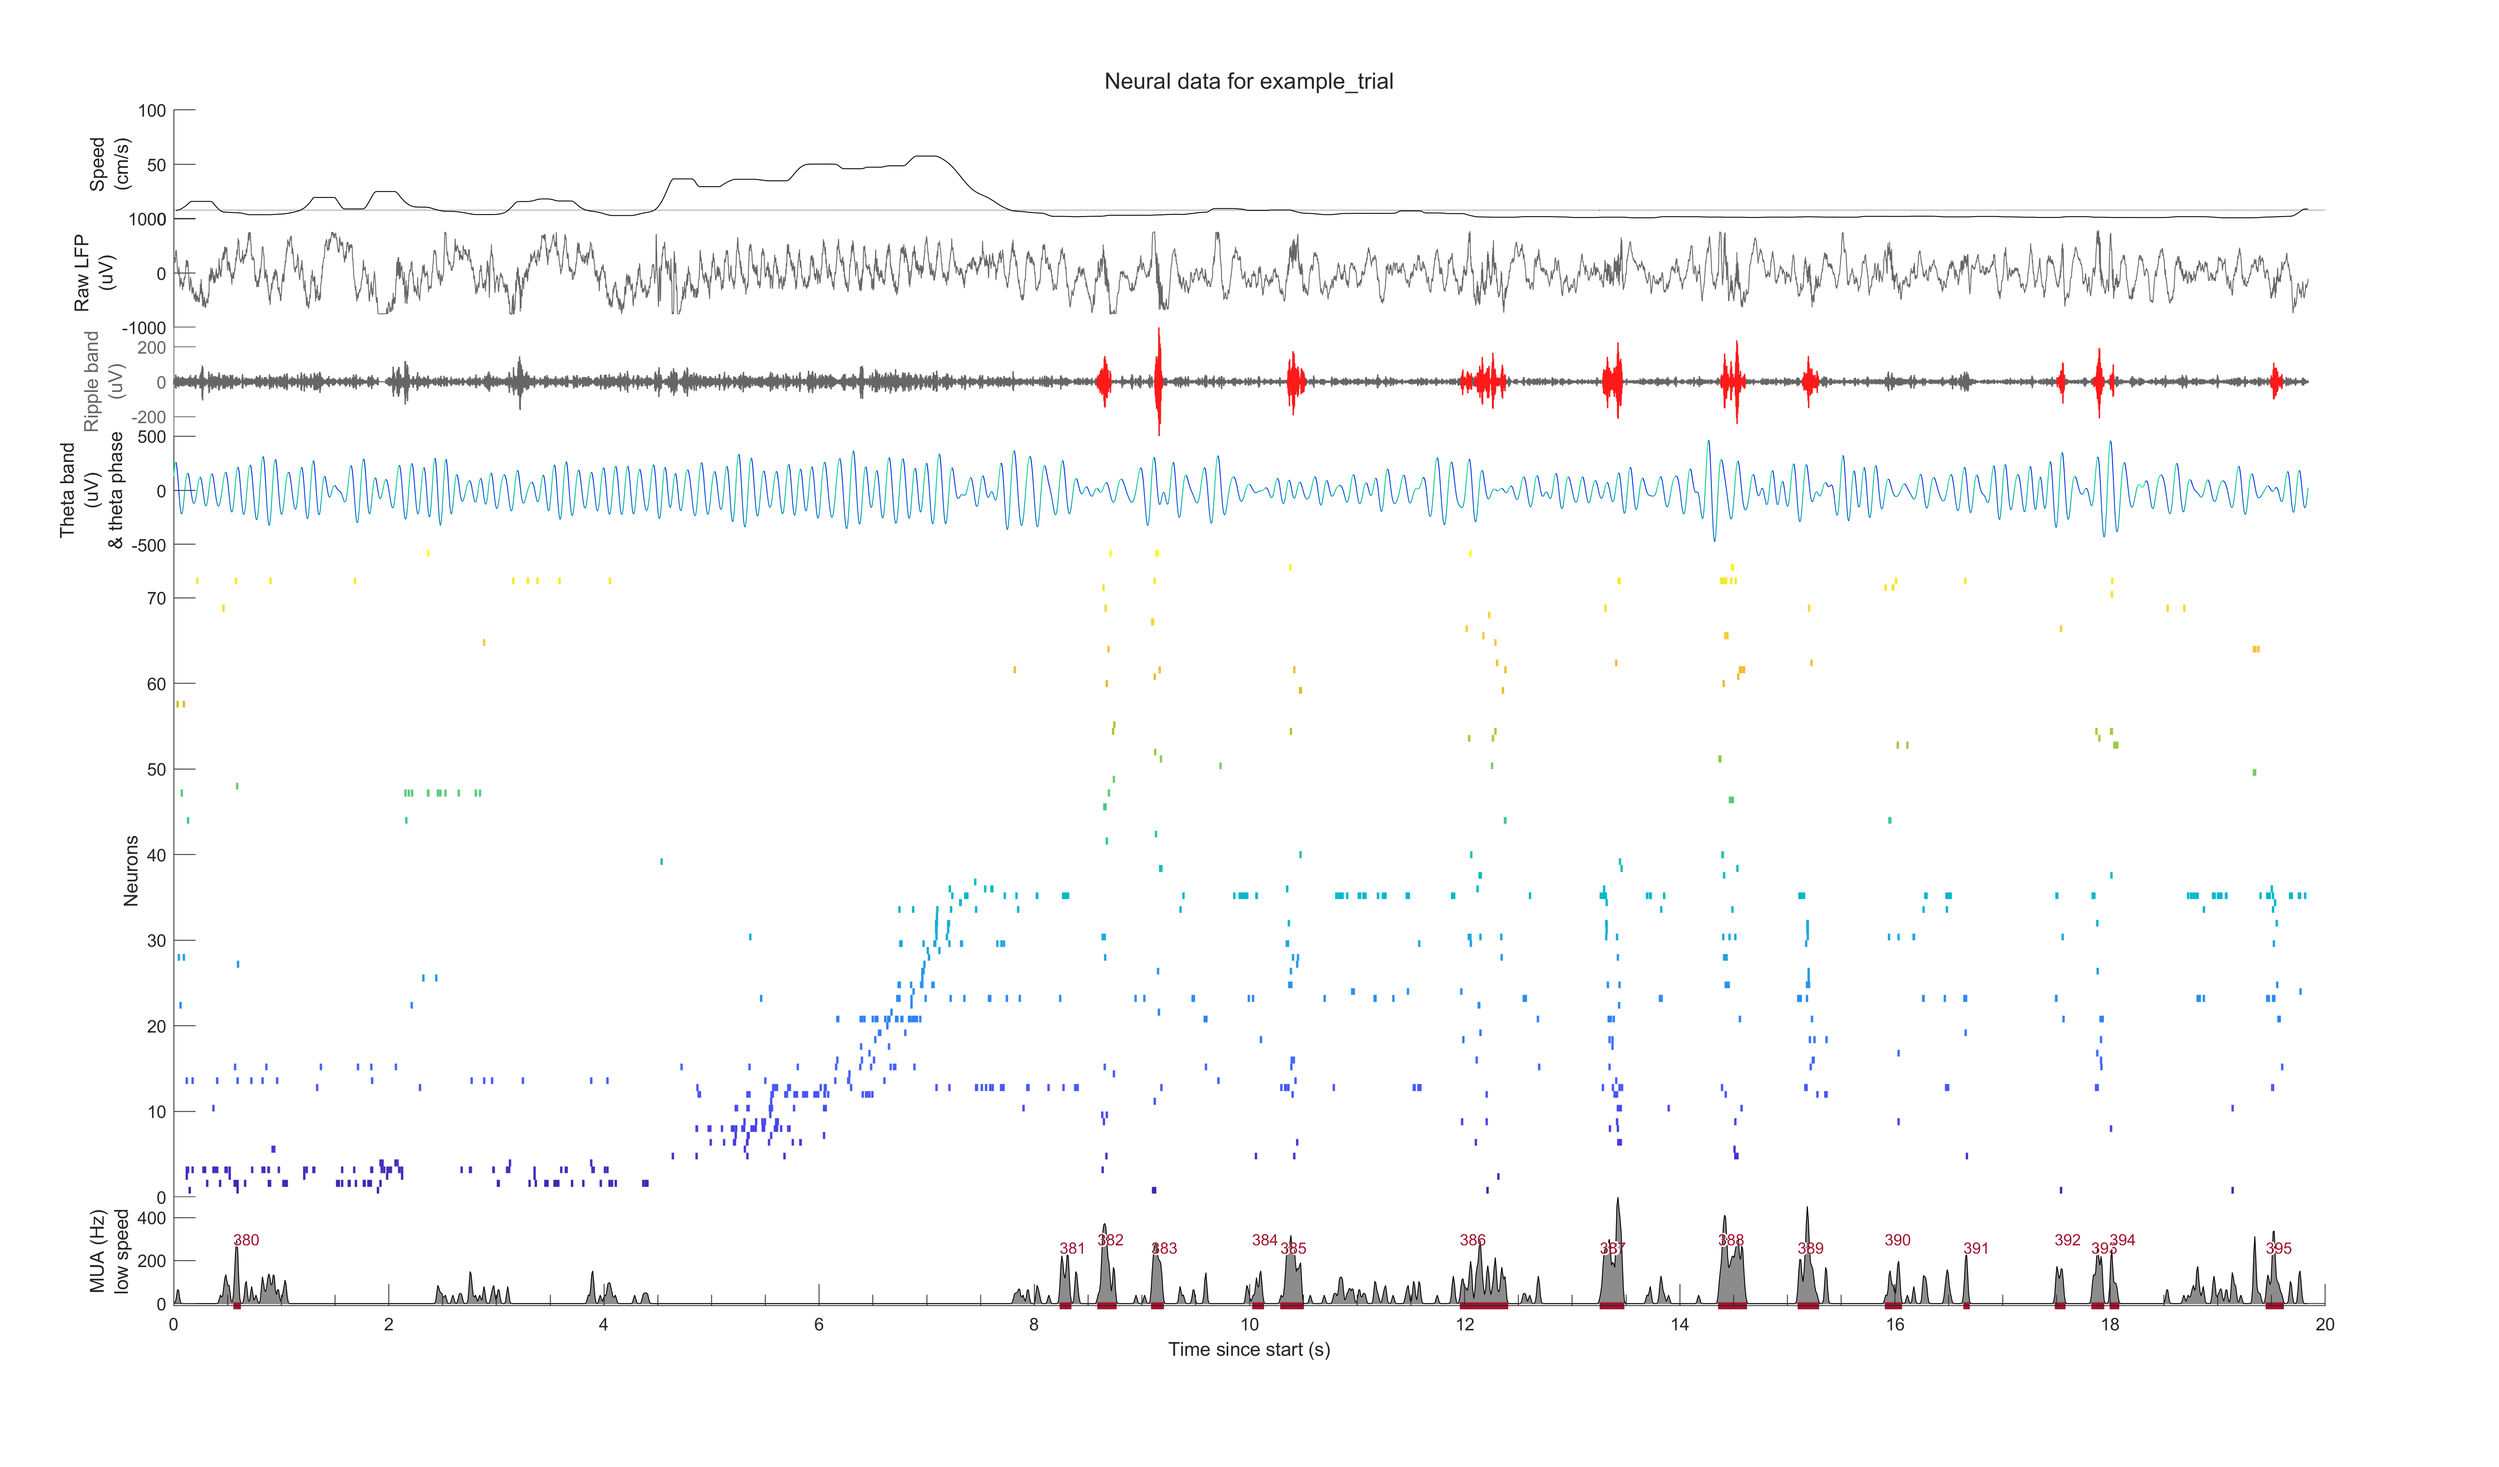
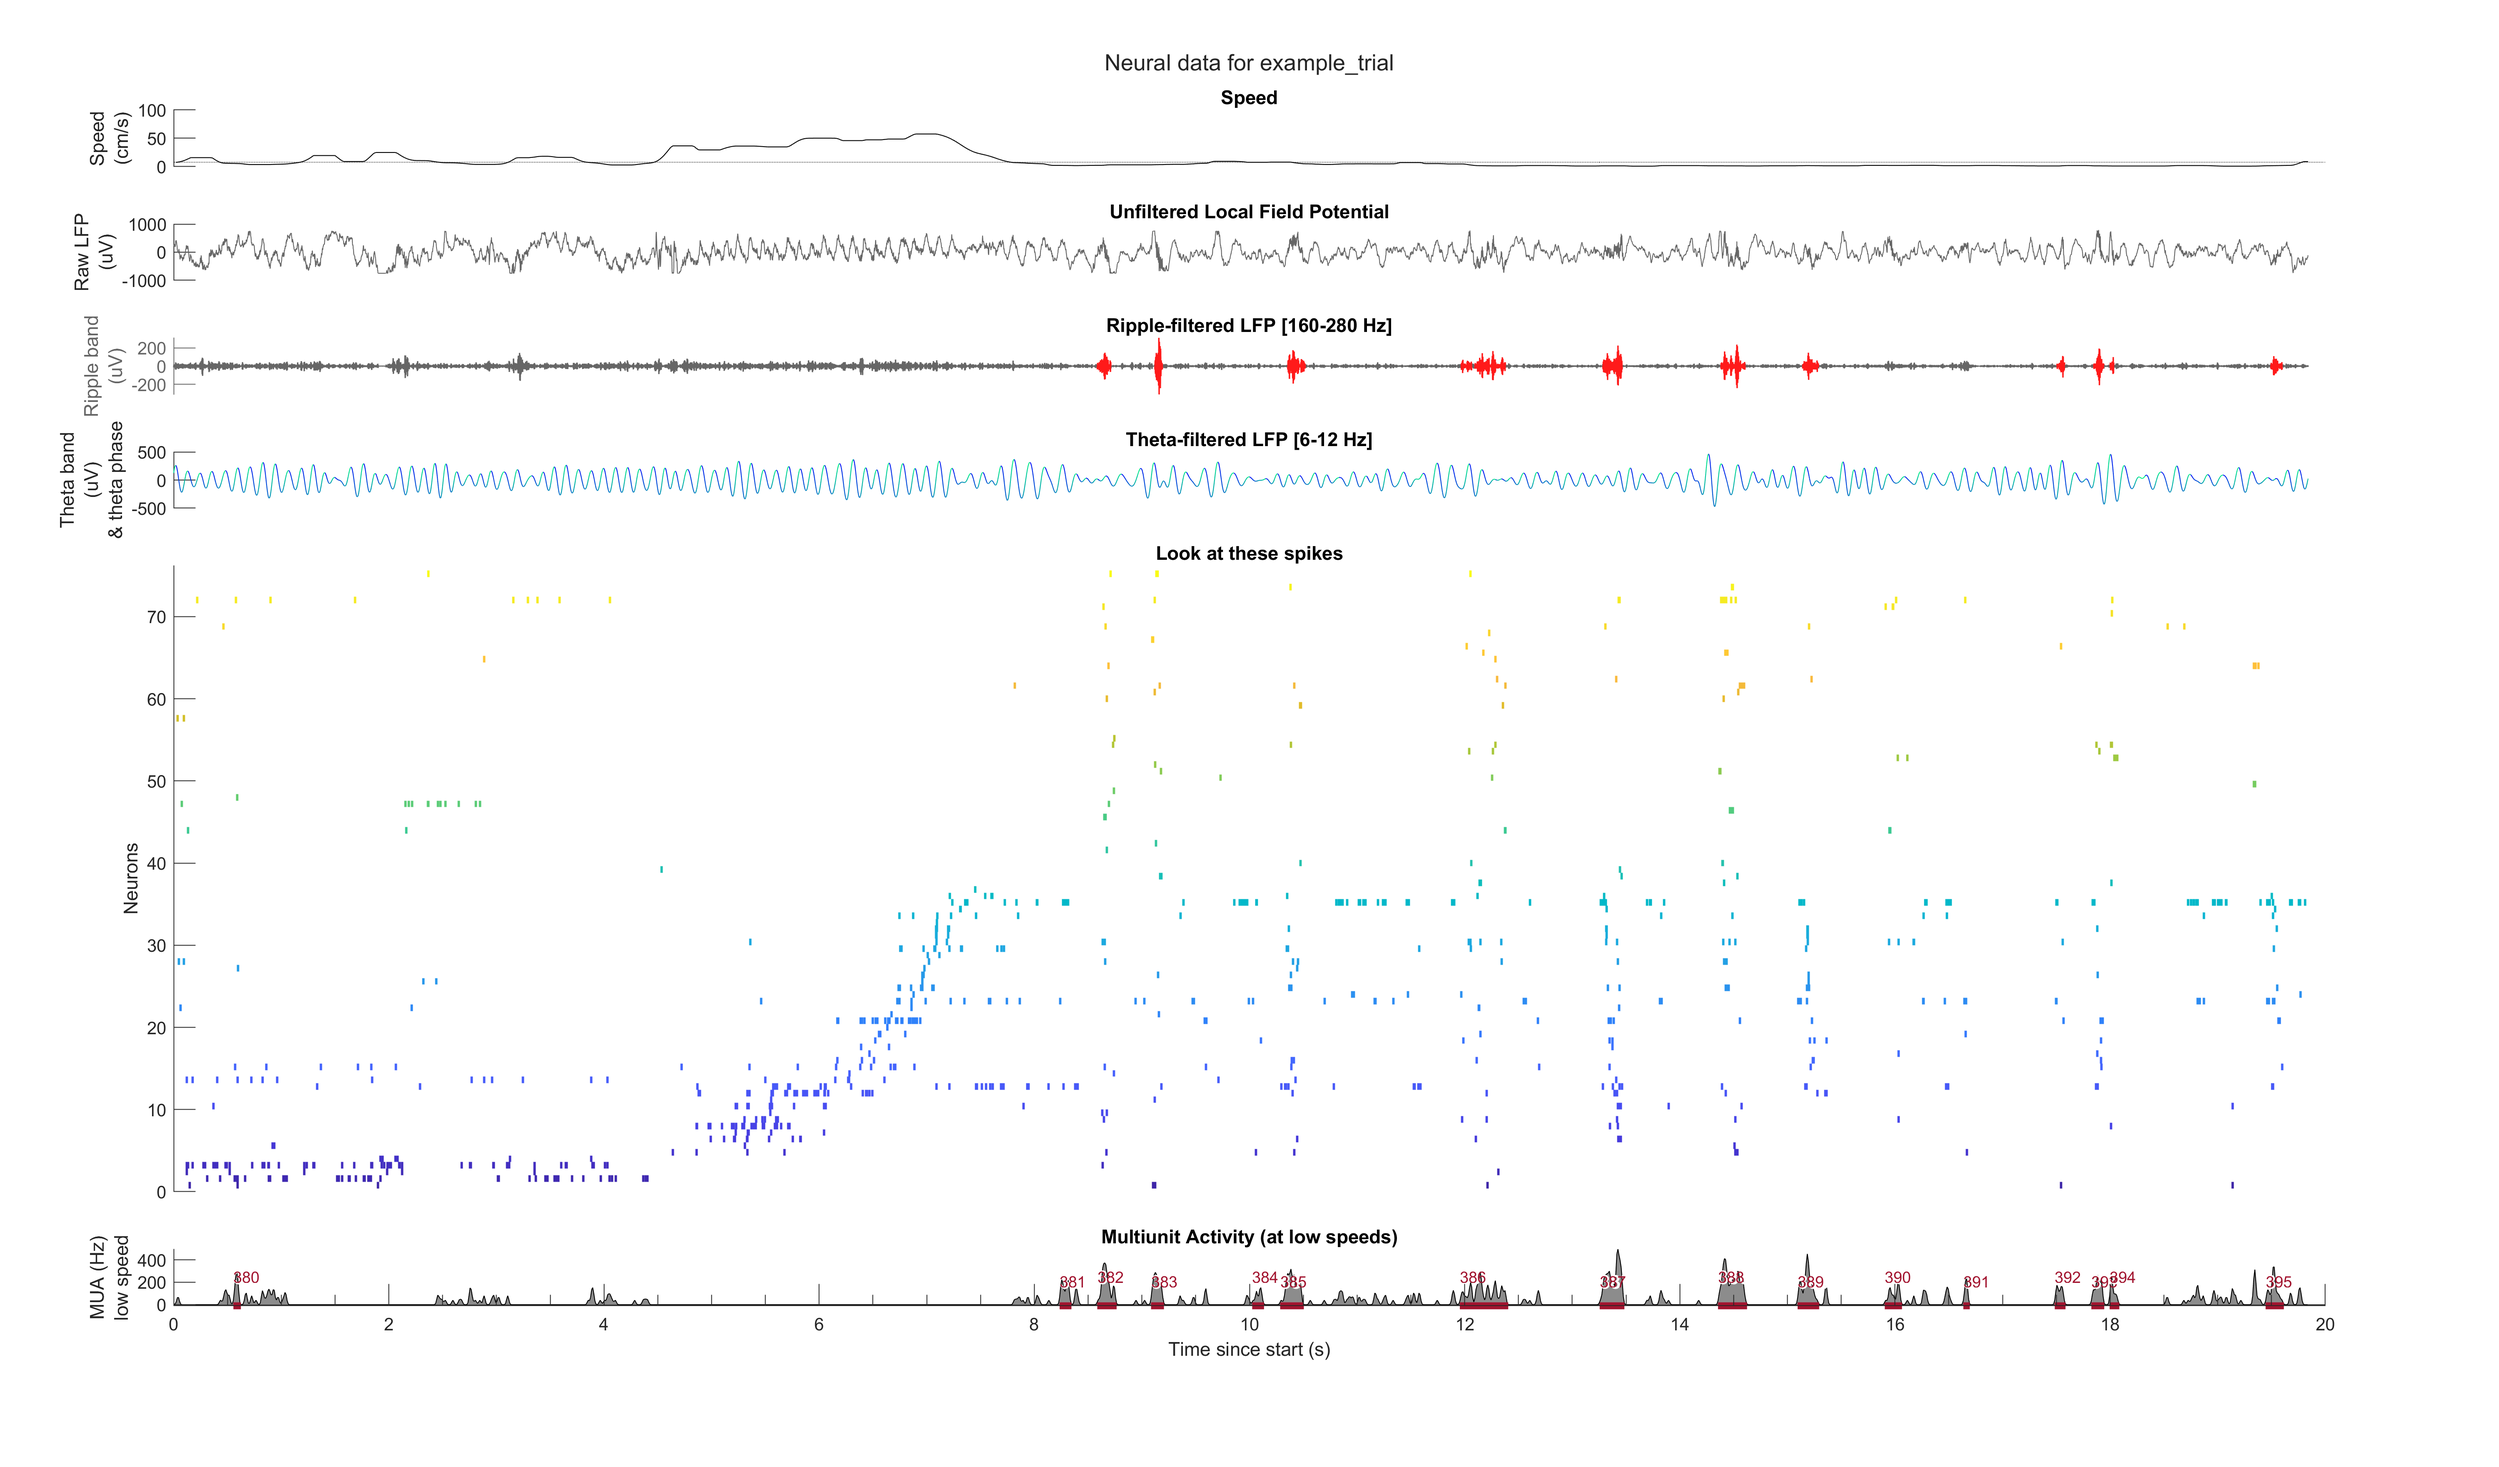
small option update

diff --git a/see_neural_plot.m b/see_neural_plot.m
@@ -28,9 +28,9 @@ close all
 options.order_cells = 1; % 1: ordered by median firing time; 0: original order
 options.show_cell_names = 0; % 1 to show individual cell names on ylabel
 options.show_mua_num = 1; % 1 to show candidate MUA numbers; 0 otherwise
-options.very_tight_plot = 1; % 1: no space between plots; 0: some space + title
+options.very_tight_plot = 0; % 1: no space between plots; 0: some space + title
 options.show_rip_env = 0; % 1 to add the ripple z-scored envelope on ripple plot (right axis)
-options.save_fig = 1; % if 1: saves the figure in current folder then
+options.save_fig = 0; % if 1: saves the figure in current folder then
 % closes it
 
 %% 2. Plotting parameters
